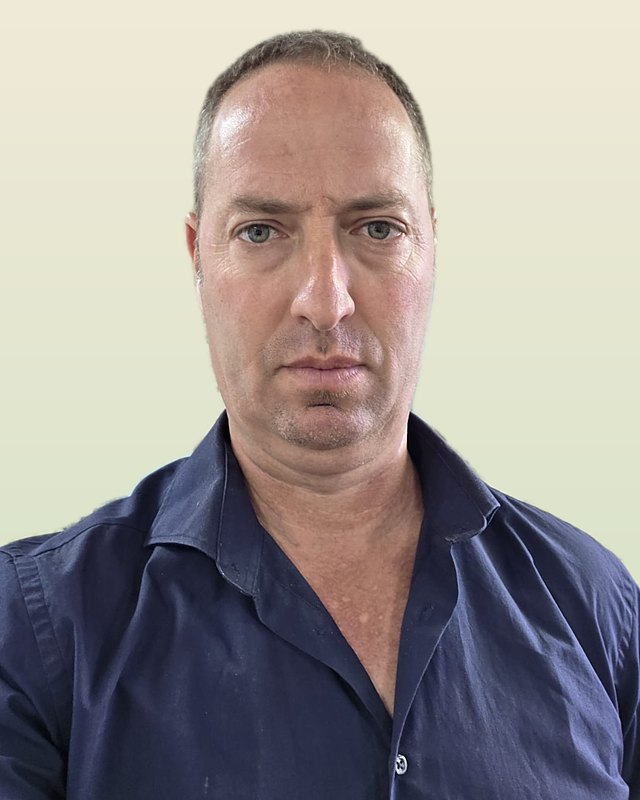
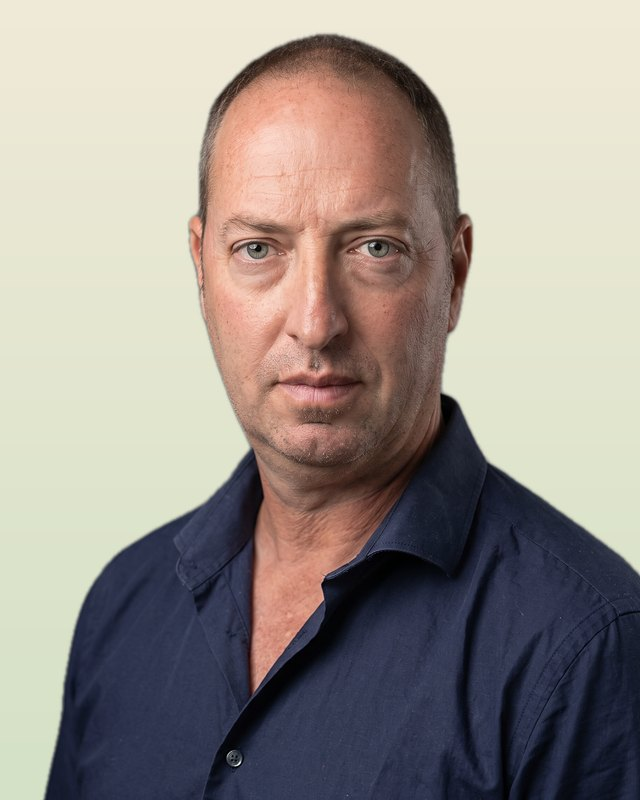
New Amos photo, brighter hero

diff --git a/index.html b/index.html
@@ -76,7 +76,7 @@ h2.sec{font-size:2rem;color:var(--violet);margin-bottom:14px}
 .sec-sub{color:var(--ink-soft);max-width:640px;font-size:1.06rem;margin-bottom:34px}
 
 /* ===== Hero ===== */
-.hero{background:linear-gradient(to left,rgba(14,34,23,.92) 0%,rgba(18,42,29,.72) 34%,rgba(20,46,32,.22) 66%,rgba(20,46,32,.05) 100%),url('https://static.wixstatic.com/media/d43a8c_427b6f83a90b4acaa616c5b7d029b726~mv2.jpg/v1/fill/w_1920,h_800,al_c,q_85/hero-current.jpg') center/cover no-repeat;color:#fff;padding:88px 0 0;position:relative;overflow:hidden}
+.hero{background:linear-gradient(to left,rgba(14,34,23,.66) 0%,rgba(18,42,29,.46) 34%,rgba(20,46,32,.12) 66%,rgba(20,46,32,0) 100%),url('https://static.wixstatic.com/media/d43a8c_427b6f83a90b4acaa616c5b7d029b726~mv2.jpg/v1/fill/w_1920,h_800,al_c,q_85/hero-current.jpg') center/cover no-repeat;color:#fff;padding:88px 0 0;position:relative;overflow:hidden}
 .hero::before{content:"";position:absolute;inset:0;background:radial-gradient(700px 340px at 12% 110%,rgba(233,168,60,.22),transparent 60%),radial-gradient(600px 300px at 95% -10%,rgba(124,154,78,.25),transparent 60%)}
 .hero .wrap{position:relative;max-width:1120px}
 .hero .htxt{max-width:640px}
